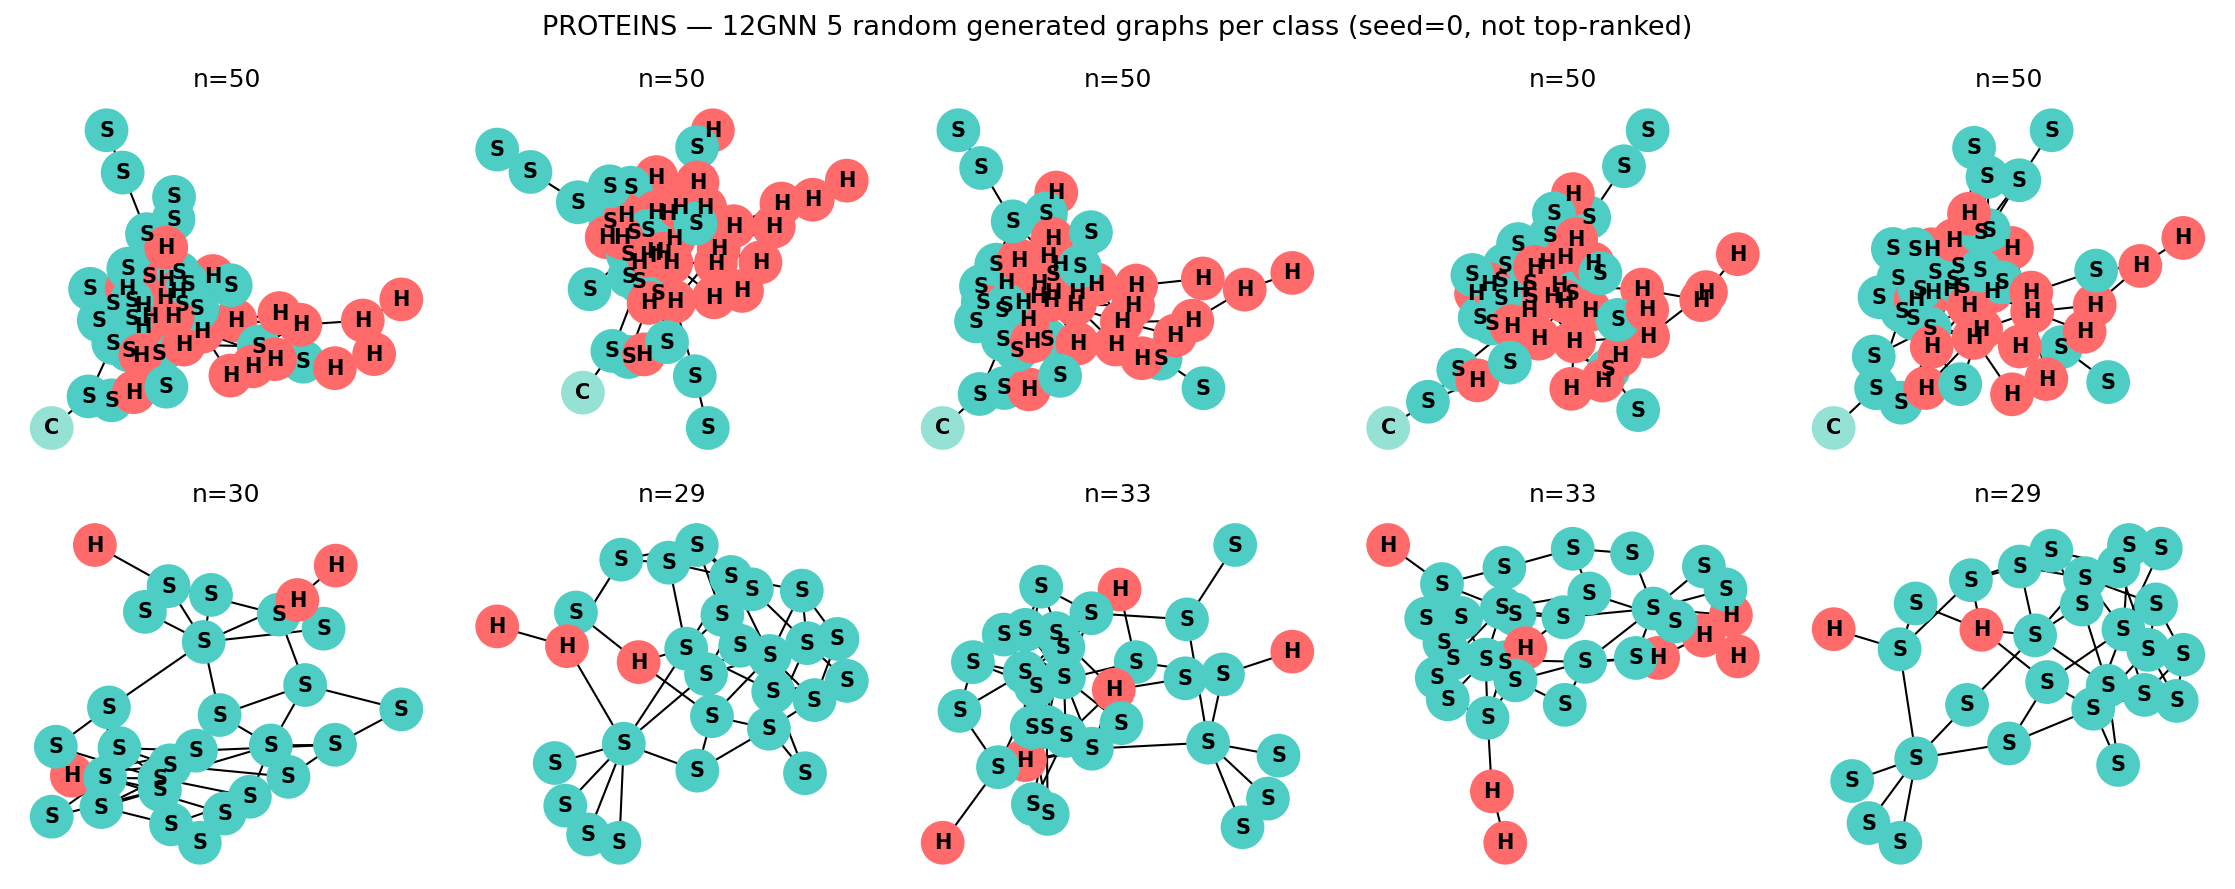
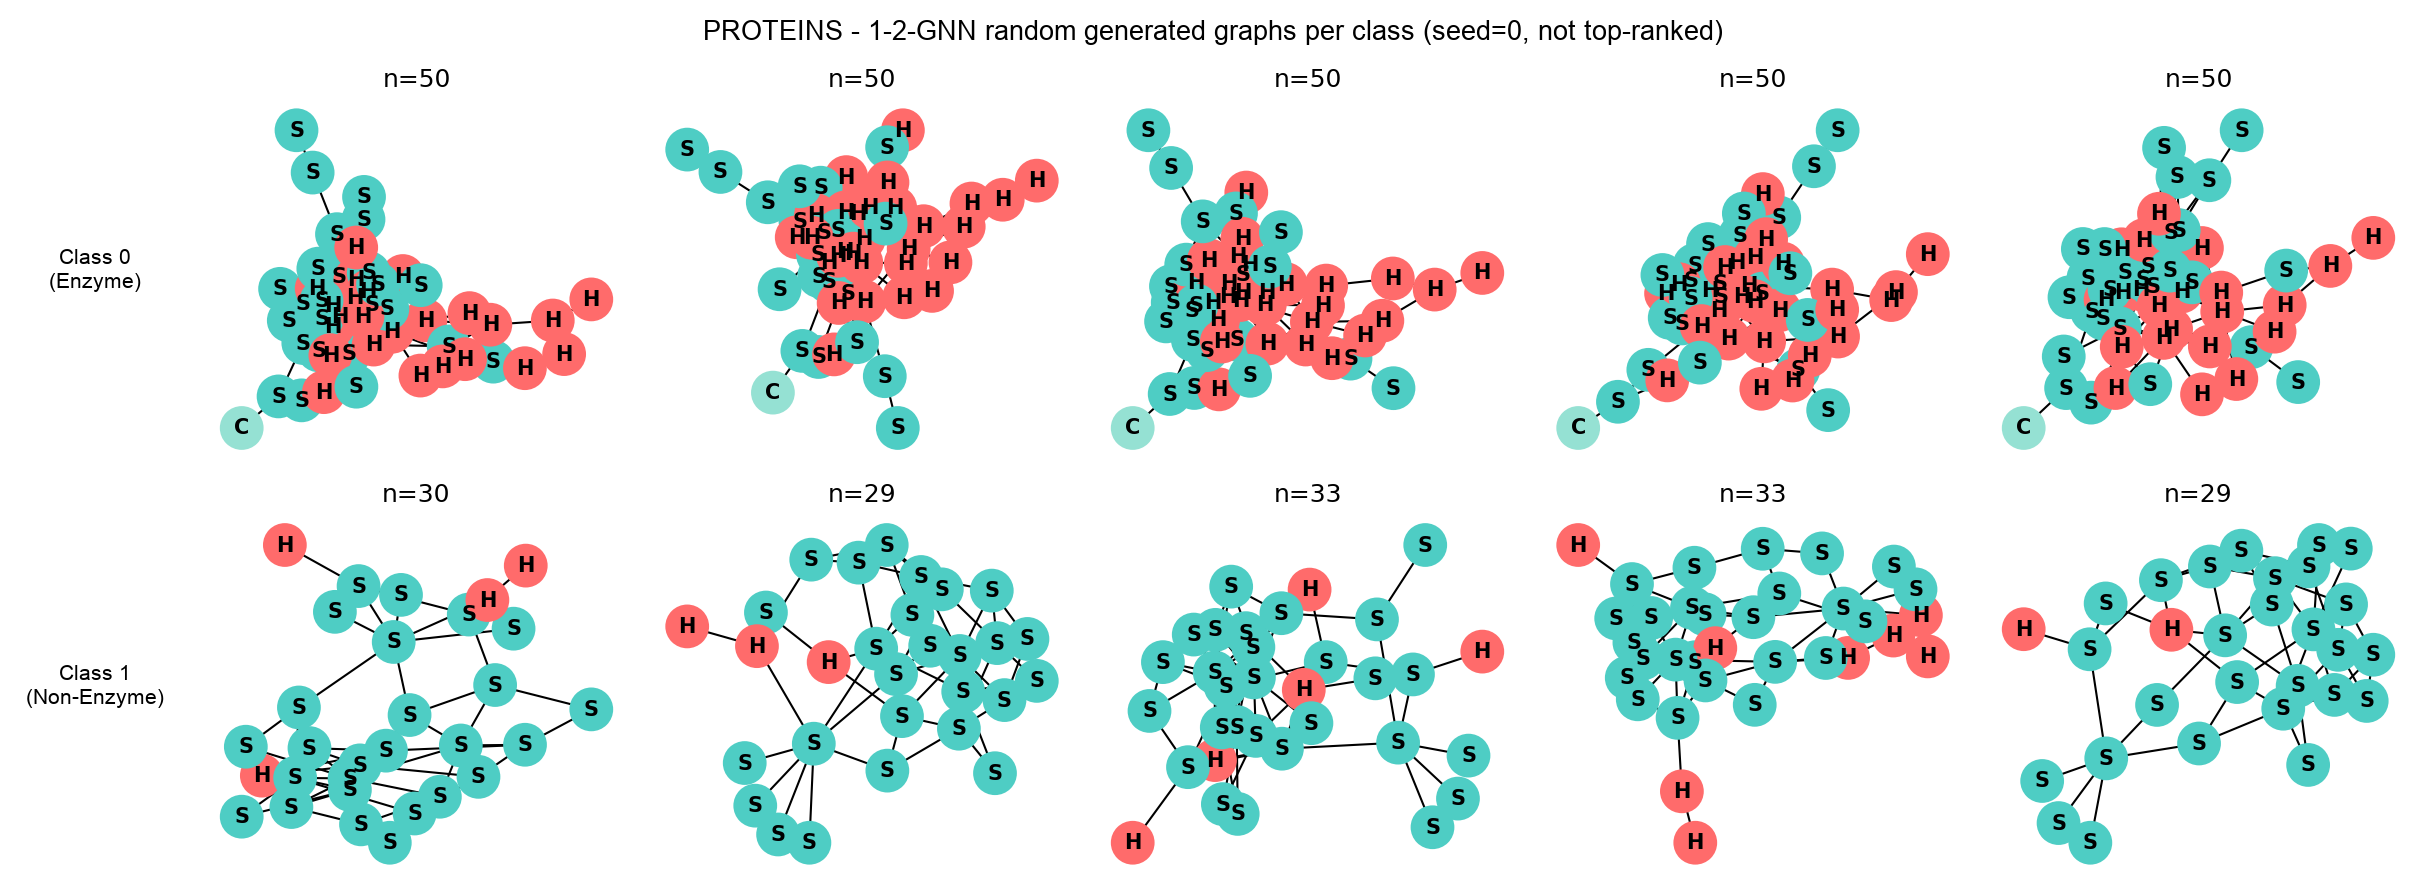
Fix sample panel labels

diff --git a/plot_qualitative_overview.py b/plot_qualitative_overview.py
@@ -28,7 +28,6 @@ Outputs (in results/{dataset}/comparison/figures/):
   - real_vs_random_{model}_class{N}.png
 """
 import argparse
-import json
 from pathlib import Path
 
 import numpy as np
@@ -65,14 +64,10 @@ def real_graphs_for_class(dataset_name: str, class_idx: int, n: int = 5, max_nod
     return picks
 
 
-def class_label_from_report(dataset_name: str, class_idx: int) -> str:
-    """Read class_label from any existing report.json (consistent across reports)."""
-    for model in ("1gnn", "12gnn"):
-        path = Path(f"results/{dataset_name}/{model}_class{class_idx}/report.json")
-        if path.exists():
-            with open(path) as f:
-                return json.load(f)["class_label"]
-    return f"Class {class_idx}"
+def class_label(dataset_name: str, class_idx: int) -> str:
+    """Return the canonical class label from the dataset handler."""
+    handler = get_handler(dataset_name)
+    return handler.class_names.get(class_idx, f"Class {class_idx}")
 
 
 def load_random_generated(dataset_name: str, model: str, class_idx: int, k: int = 5,
@@ -101,7 +96,7 @@ def plot_real_samples(dataset_name: str, out_dir: Path):
     fig, axes = plt.subplots(2, n_per, figsize=(3 * n_per, 6))
     for c in (0, 1):
         samples = real_graphs_for_class(dataset_name, c, n_per, max_nodes=max_n)
-        class_name = class_label_from_report(dataset_name, c)
+        class_name = class_label(dataset_name, c)
         titles = [f"n={n}" for (_, _, n) in samples]
         for ax, (adj, x, _), title in zip(axes[c], samples, titles):
             handler.plot_explanation_graph(adj, x, ax=ax, title=title)
@@ -127,7 +122,7 @@ def plot_random_overview(dataset_name: str, model: str, out_dir: Path):
         titles = [f"n={n}" for n in n_nodes]
         for i, (a, x, title) in enumerate(zip(adjs, xs, titles)):
             handler.plot_explanation_graph(a, x, ax=axes[c, i], title=title)
-        class_name = class_label_from_report(dataset_name, c)
+        class_name = class_label(dataset_name, c)
         axes[c, 0].set_ylabel(f"Class {c}\n({class_name})", fontsize=11)
     fig.suptitle(
         f"{dataset_name.upper()} — {model.upper()} 5 random generated graphs per class "
@@ -152,7 +147,7 @@ def plot_real_vs_random(dataset_name: str, model: str, class_idx: int, out_dir: 
 
     adjs, xs, n_nodes = load_random_generated(dataset_name, model, class_idx, k=5, rng=rng)
     real = real_graphs_for_class(dataset_name, class_idx, 5, max_nodes=max_n)
-    class_name = class_label_from_report(dataset_name, class_idx)
+    class_name = class_label(dataset_name, class_idx)
 
     fig, axes = plt.subplots(2, 5, figsize=(15, 6))
     gen_titles = [f"n={n}" for n in n_nodes]
